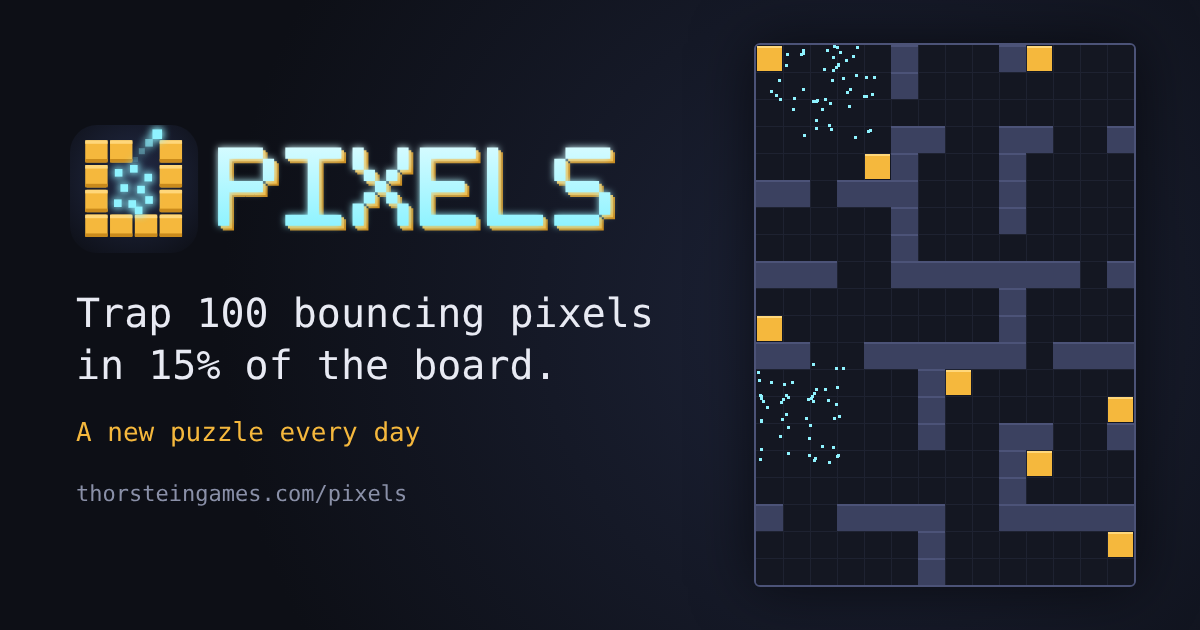
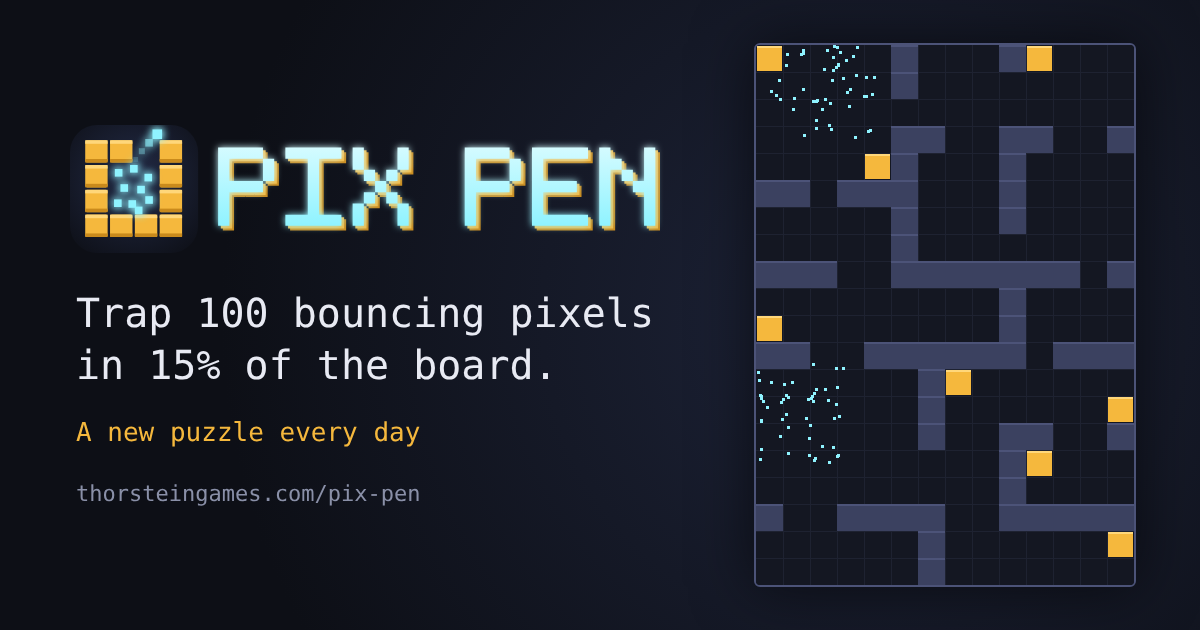
Rename to Pix Pen and serve it at /pix-pen
Name, wordmark, logo, share image, share text, page metadata, manifest and
sitemap all say Pix Pen, built for base /pix-pen/ (thorstein-games-website
proxies it there and 301s the old /pixels paths). localStorage keys, the
daily seed prefix and the repo name stay pixels, so streaks and today's
board carry over. The header's help button no longer shrinks at 320px.

Claude-Session: https://claude.ai/code/session_01PvJTvR8tjqqvbkCcEVb6RA

Changed region(s): [[0.3392, 0.2111, 0.555, 0.3921], [0.3083, 0.754, 0.3392, 0.8143]]

diff --git a/index.html b/index.html
@@ -4,40 +4,40 @@
     <meta charset="UTF-8" />
     <meta name="viewport" content="width=device-width, initial-scale=1, viewport-fit=cover" />
     <meta name="theme-color" content="#0d0f16" />
-    <title>Pixels: Daily Puzzle Game · Thorstein Games</title>
+    <title>Pix Pen: Daily Puzzle Game · Thorstein Games</title>
     <meta name="description" content="Trap 100 bouncing pixels into 15% of the board by placing blocks. A free daily puzzle game in your browser, with streaks, scores and unlimited practice boards." />
-    <meta name="keywords" content="pixels game, daily puzzle, browser puzzle game, free puzzle game, trap the pixels, thorstein games" />
-    <link rel="canonical" href="https://thorsteingames.com/pixels" />
+    <meta name="keywords" content="pix pen, pixels game, daily puzzle, browser puzzle game, free puzzle game, trap the pixels, thorstein games" />
+    <link rel="canonical" href="https://thorsteingames.com/pix-pen" />
     <meta name="robots" content="index, follow, max-image-preview:large" />
 
     <meta property="og:type" content="website" />
     <meta property="og:site_name" content="Thorstein Games" />
-    <meta property="og:url" content="https://thorsteingames.com/pixels" />
-    <meta property="og:title" content="Pixels: Daily Puzzle Game" />
+    <meta property="og:url" content="https://thorsteingames.com/pix-pen" />
+    <meta property="og:title" content="Pix Pen: Daily Puzzle Game" />
     <meta property="og:description" content="Trap 100 bouncing pixels into 15% of the board. A new puzzle every day." />
-    <meta property="og:image" content="https://thorsteingames.com/pixels/og-image.png?v=3" />
+    <meta property="og:image" content="https://thorsteingames.com/pix-pen/og-image.png?v=4" />
     <meta property="og:image:width" content="1200" />
     <meta property="og:image:height" content="630" />
-    <meta property="og:image:alt" content="The Pixels logo beside a board of blocks walling in clusters of bouncing pixels" />
+    <meta property="og:image:alt" content="The Pix Pen logo beside a board of blocks walling in clusters of bouncing pixels" />
     <meta property="og:locale" content="en_US" />
     <meta name="twitter:card" content="summary_large_image" />
     <meta name="twitter:creator" content="@thorsteingames" />
-    <meta name="twitter:title" content="Pixels: Daily Puzzle Game" />
+    <meta name="twitter:title" content="Pix Pen: Daily Puzzle Game" />
     <meta name="twitter:description" content="Trap 100 bouncing pixels into 15% of the board. A new puzzle every day." />
-    <meta name="twitter:image" content="https://thorsteingames.com/pixels/og-image.png?v=3" />
+    <meta name="twitter:image" content="https://thorsteingames.com/pix-pen/og-image.png?v=4" />
 
     <link rel="icon" type="image/svg+xml" href="./favicon.svg" />
     <link rel="apple-touch-icon" href="./apple-touch-icon.png" />
     <link rel="manifest" href="./manifest.webmanifest" />
-    <meta name="apple-mobile-web-app-title" content="Pixels" />
+    <meta name="apple-mobile-web-app-title" content="Pix Pen" />
 
     <script type="application/ld+json">
       {
         "@context": "https://schema.org",
         "@type": "VideoGame",
-        "name": "Pixels",
-        "url": "https://thorsteingames.com/pixels",
-        "image": "https://thorsteingames.com/pixels/og-image.png?v=3",
+        "name": "Pix Pen",
+        "url": "https://thorsteingames.com/pix-pen",
+        "image": "https://thorsteingames.com/pix-pen/og-image.png?v=4",
         "description": "Trap 100 bouncing pixels into 15% of the board by placing blocks. A new puzzle every day.",
         "genre": ["Puzzle", "Daily puzzle"],
         "gamePlatform": "Web browser",
@@ -53,11 +53,11 @@
     <script src="https://thorsteingames.com/tg-bar.js" async></script>
   </head>
   <body>
-    <tg-bar game="pixels"></tg-bar>
-    <tg-ad game="pixels" format="rail" beside=".app"></tg-ad>
+    <tg-bar game="pix-pen"></tg-bar>
+    <tg-ad game="pix-pen" format="rail" beside=".app"></tg-ad>
     <main class="app">
       <header class="top">
-        <h1 class="title"><img src="./logo.svg" alt="Pixels" /></h1>
+        <h1 class="title"><img src="./logo.svg" alt="Pix Pen" /></h1>
         <nav class="modes" aria-label="Mode">
           <button type="button" data-mode="daily" class="mode">Daily</button>
           <button type="button" data-mode="practice" class="mode">Practice</button>
@@ -104,9 +104,9 @@
               <button type="button" id="play-again">Play again</button>
               <button type="button" id="win-next">Practice</button>
             </div>
-            <tg-more-games game="pixels" class="more-games"></tg-more-games>
+            <tg-more-games game="pix-pen" class="more-games"></tg-more-games>
           </div>
-          <tg-ad game="pixels" format="box" class="win-ad"></tg-ad>
+          <tg-ad game="pix-pen" format="box" class="win-ad"></tg-ad>
         </div>
       </div>
 
@@ -115,8 +115,8 @@
         <button type="button" id="new-btn" hidden>New board</button>
       </footer>
     </main>
-    <tg-ad game="pixels" format="banner" class="page-ad"></tg-ad>
-    <tg-footer game="pixels"></tg-footer>
+    <tg-ad game="pix-pen" format="banner" class="page-ad"></tg-ad>
+    <tg-footer game="pix-pen"></tg-footer>
 
     <dialog id="help">
       <h2>How to play</h2>

diff --git a/scripts/render-images.ts b/scripts/render-images.ts
@@ -74,7 +74,7 @@ await page.setContent(`<body style="margin:0;width:1200px;height:630px;overflow:
     <img src="${svg("logo.svg")}" style="height:128px;display:block;margin-left:-6px">
     <div style="font-size:40px;margin-top:34px;line-height:1.3">Trap ${PIXEL_COUNT} bouncing pixels<br>in ${WIN_AREA_PERCENT}% of the board.</div>
     <div style="font-size:26px;margin-top:26px;color:#f5b83d">A new puzzle every day</div>
-    <div style="font-size:22px;margin-top:34px;color:#8a90a8">thorsteingames.com/pixels</div>
+    <div style="font-size:22px;margin-top:34px;color:#8a90a8">thorsteingames.com/pix-pen</div>
   </div>
   <canvas id="c" width="${game.cols * cell * 2}" height="${game.rows * cell * 2}"
     style="width:${game.cols * cell}px;height:${game.rows * cell}px;margin-right:64px;border:2px solid #4c5378;border-radius:6px;box-shadow:0 0 60px rgba(0,0,0,.6)"></canvas>

diff --git a/e2e/game.spec.ts b/e2e/game.spec.ts
@@ -90,7 +90,7 @@ test("daily: winning shows the result, saves it and offers a share", async ({ pa
 
 test("serves the share image, icons, manifest and sitemap", async ({ page, request }) => {
   await page.goto("./");
-  await expect(page.locator('meta[property="og:image"]')).toHaveAttribute("content", /og-image\.png\?v=3$/);
+  await expect(page.locator('meta[property="og:image"]')).toHaveAttribute("content", /og-image\.png\?v=4$/);
   for (const path of ["og-image.png", "apple-touch-icon.png", "icon-192.png", "icon-512.png", "manifest.webmanifest", "sitemap.xml"]) {
     expect((await request.get(path)).status(), path).toBe(200);
   }

diff --git a/playwright.config.ts b/playwright.config.ts
@@ -3,14 +3,14 @@ import { defineConfig, devices } from "@playwright/test";
 export default defineConfig({
   testDir: "e2e",
   timeout: 30_000,
-  use: { baseURL: "http://localhost:4173/pixels/" },
+  use: { baseURL: "http://localhost:4173/pix-pen/" },
   projects: [
     { name: "desktop", use: { ...devices["Desktop Chrome"] } },
     { name: "phone", use: { ...devices["Pixel 7"] } },
   ],
   webServer: {
     command: "npm run build && npx vite preview --port 4173 --strictPort",
-    url: "http://localhost:4173/pixels/",
+    url: "http://localhost:4173/pix-pen/",
     reuseExistingServer: !process.env.CI,
   },
 });

diff --git a/vite.config.ts b/vite.config.ts
@@ -1,10 +1,11 @@
 import { defineConfig } from "vitest/config";
 
-// Served at thorsteingames.com/pixels: the thorstein-games-website app
-// rewrites /pixels/* to this repo's GitHub Pages site, so every asset URL
+// Served at thorsteingames.com/pix-pen: thorstein-games-website proxies
+// /pix-pen/* to this repo's GitHub Pages site (still at /pixels/, the repo's
+// name), so every asset URL
 // must carry the prefix.
 export default defineConfig({
-  base: "/pixels/",
+  base: "/pix-pen/",
   test: {
     include: ["tests/**/*.test.ts"],
   },

diff --git a/src/share.ts b/src/share.ts
@@ -1,8 +1,8 @@
 import { formatNumber, formatTime } from "./score";
 import type { DailyResult } from "./daily";
 
-export const GAME_NAME = "Pixels";
-export const SITE_URL = "https://thorsteingames.com/pixels";
+export const GAME_NAME = "Pix Pen";
+export const SITE_URL = "https://thorsteingames.com/pix-pen";
 
 export function shareText(number: number, result: DailyResult, streak: number): string {
   const lines = [

diff --git a/src/style.css b/src/style.css
@@ -108,6 +108,7 @@ tg-bar:not(:defined) {
   color: var(--text);
 }
 .icon-btn {
+  flex-shrink: 0;
   width: 34px;
   height: 34px;
   padding: 0;
@@ -429,5 +430,15 @@ dialog li {
   }
   .controls button {
     padding: 5px 12px;
+  }
+}
+
+@media (max-width: 360px) {
+  /* Logo, mode tabs and help button share one row on the narrowest phones. */
+  .top {
+    gap: 6px;
+  }
+  .title img {
+    height: 20px;
   }
 }

diff --git a/CLAUDE.md b/CLAUDE.md
@@ -1,8 +1,8 @@
 # CLAUDE.md
 
-Pixels (working title): ~100 pixels bounce around a grid; the player taps cells to place/remove blocks and wins once every pixel is sealed into at most `WIN_AREA_PERCENT` (15%) of the board's open cells. Placing a block on a pixel traps it (it shakes) until the block is removed, and you can't win while any pixel is trapped. Score = moves × seconds, lower is better. A daily board (seeded by local date) plus a practice mode (`#practice`).
+Pix Pen (formerly Pixels; a play on "pig pen"): ~100 pixels bounce around a grid; the player taps cells to place/remove blocks and wins once every pixel is sealed into at most `WIN_AREA_PERCENT` (15%) of the board's open cells. Placing a block on a pixel traps it (it shakes) until the block is removed, and you can't win while any pixel is trapped. Score = moves × seconds, lower is better. A daily board (seeded by local date) plus a practice mode (`#practice`).
 
-Plain Vite + TypeScript, canvas rendering, no framework, no server. Built with `base: "/pixels/"` and deployed to GitHub Pages by `.github/workflows/deploy.yml`; thorstein-games-website proxies `thorsteingames.com/pixels` to it.
+Plain Vite + TypeScript, canvas rendering, no framework, no server. Built with `base: "/pix-pen/"` and deployed to GitHub Pages by `.github/workflows/deploy.yml` (the repo is still named `pixels`, so Pages serves it at `/pixels/`); thorstein-games-website proxies `thorsteingames.com/pix-pen` to it and 301s the old `/pixels` paths there. Internal names keep the old one on purpose: localStorage keys (`pixels.daily.*`, so streaks survived the rename), the daily seed prefix (`pixels:<date>`, changing it changes every daily board) and `window.__pixels`.
 
 ## Commands
 
@@ -21,9 +21,9 @@ node scripts/logo.mjs && npx vite-node scripts/render-images.ts  # regenerate lo
 - `src/game/sim.ts` — pure game state: fixed-timestep physics (`advance`/`step`, axis-separated bounces so pixels stay in 4-connected regions), `tap`, `measure` (reachable area; only changes on a tap, so the win check runs there).
 - `src/daily.ts` — date keys, seed, streak math, localStorage (`pixels.daily.*`). Daily progress (clock + moves) survives reloads and restarts; the board itself resets.
 - `src/main.ts` — DOM/UI wiring and the rAF loop; `src/render.ts` — canvas drawing and animations. Blocks are placed on pointer *up* (press shows an aim highlight, drag moves it, releasing off the board cancels); the canvas eats `touchstart` and the page uses `touch-action: manipulation` so iOS doesn't double-tap zoom. The board is sized by a `ResizeObserver` on `#board-wrap`, and `.app`'s max-width grows with screen height so tablets fill up.
-- Shared Thorstein Games chrome: `index.html` loads `https://thorsteingames.com/tg-bar.js` (from the thorstein-games-website repo, whose CLAUDE.md has the full contract) and uses `<tg-bar game="pixels">` (thin site header, hides on scroll down), `<tg-footer game="pixels">` (after `.app`, so it starts below the fold) and `<tg-more-games game="pixels">` ("Play a different game", in the win card). The bar is always 40px: `style.css` holds that space before the script loads and `.app` is `100dvh - 40px`, so keep both in step if the board's height maths changes. The e2e spec stubs the script so tests don't depend on production.
+- Shared Thorstein Games chrome: `index.html` loads `https://thorsteingames.com/tg-bar.js` (from the thorstein-games-website repo, whose CLAUDE.md has the full contract) and uses `<tg-bar game="pix-pen">` (thin site header, hides on scroll down), `<tg-footer game="pix-pen">` (after `.app`, so it starts below the fold) and `<tg-more-games game="pix-pen">` ("Play a different game", in the win card). The bar is always 40px: `style.css` holds that space before the script loads and `.app` is `100dvh - 40px`, so keep both in step if the board's height maths changes. The e2e spec stubs the script so tests don't depend on production.
 - Ads (`<tg-ad>`, rules and options in the hub's CLAUDE.md): a `rail` beside `.app` on wide screens, a `box` under the win card (`#win-overlay` stacks card and ad and scrolls from the top, so neither is cut off) and a `banner` between `.app` and the footer. Never on the board or during play. Check placements with `?tgads=preview`.
-- Branding: `scripts/logo.mjs` generates `public/favicon.svg` (the mark: blocks penning in pixels, one escaping), `wordmark.svg` and `logo.svg` (header) from its `NAME` constant and a 5×7 pixel font; `scripts/render-images.ts` renders the PNG icons and `og-image.png` (a real board drawn by `render.ts`). Bump the `?v=` on the og:image URLs when the share image changes so link previews refetch it. thorstein-games-website's `public/pixels.svg` is a copy of the favicon for its homepage card.
+- Branding: `scripts/logo.mjs` generates `public/favicon.svg` (the mark: blocks penning in pixels, one escaping), `wordmark.svg` and `logo.svg` (header) from its `NAME` constant and a 5×7 pixel font; `scripts/render-images.ts` renders the PNG icons and `og-image.png` (a real board drawn by `render.ts`). Bump the `?v=` on the og:image URLs when the share image changes so link previews refetch it. thorstein-games-website's `public/pix-pen.svg` is a copy of the favicon for its homepage card.
 - `window.__pixels` exposes UI state so e2e tests can steer pixels instead of chasing them.
 
 Determinism: the daily board and pixel paths must match on every device, so level generation avoids `Math.sin`/`cos` (only `sqrt`) and the sim always steps by `STEP_SECONDS`.

diff --git a/README.md b/README.md
@@ -1,6 +1,6 @@
-# Pixels
+# Pix Pen
 
-Trap 100 bouncing pixels into a tiny corner of the board. A new puzzle every day at [thorsteingames.com/pixels](https://thorsteingames.com/pixels).
+Pen 100 bouncing pixels into a tiny corner of the board. A new puzzle every day at [thorsteingames.com/pix-pen](https://thorsteingames.com/pix-pen).
 
 ```bash
 npm install
